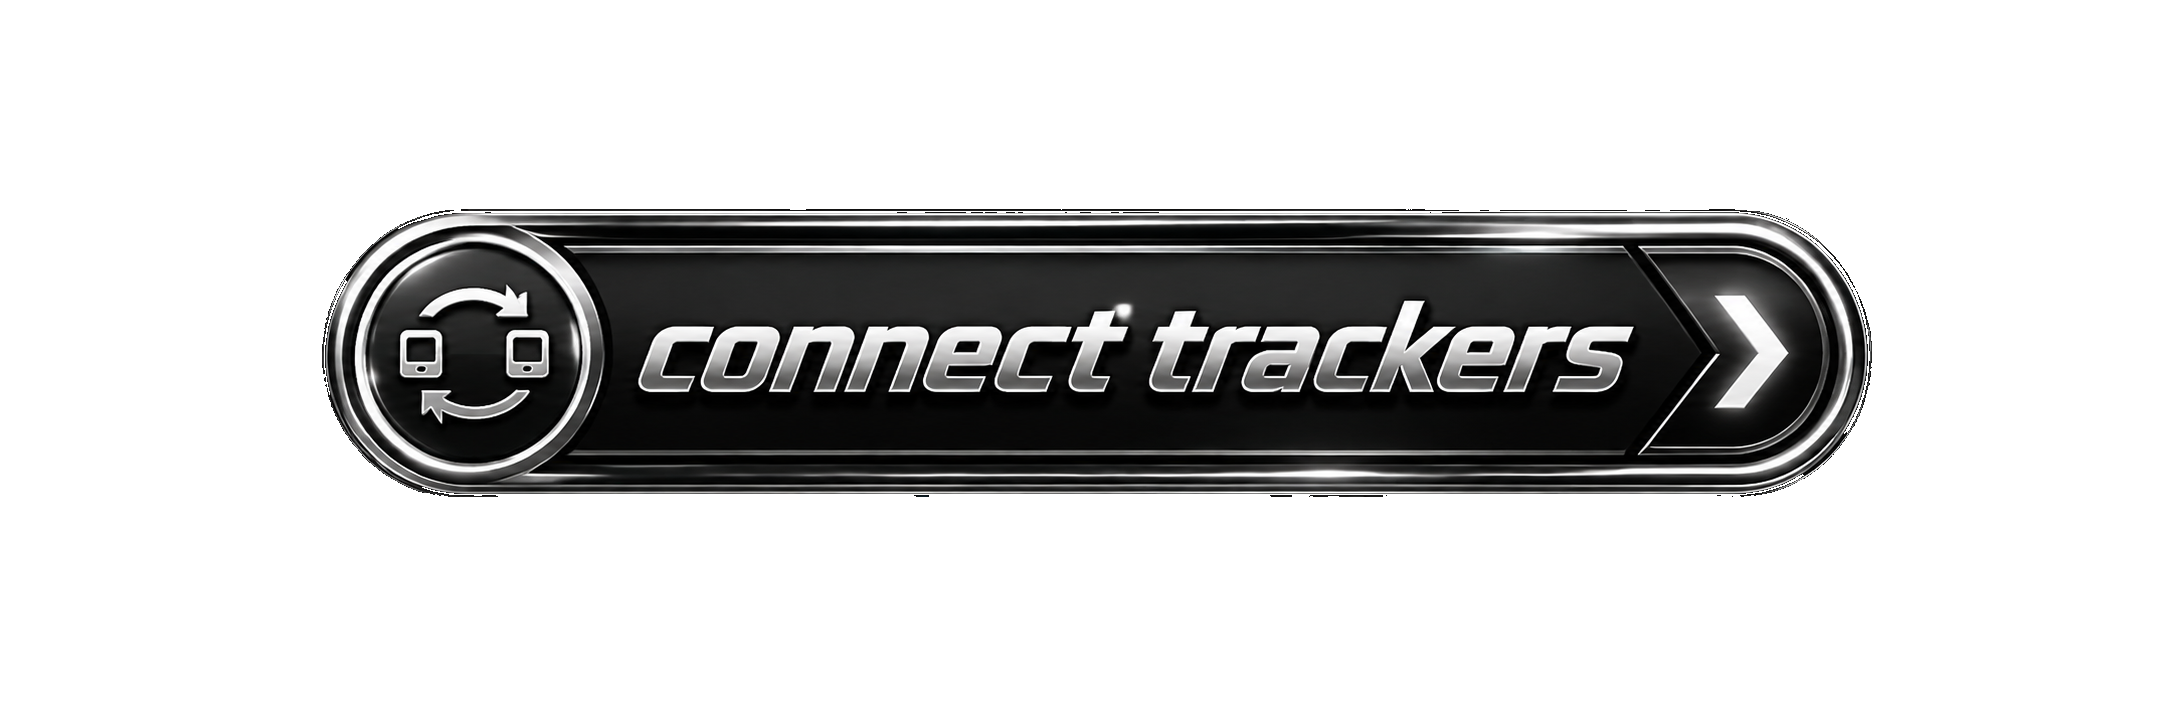
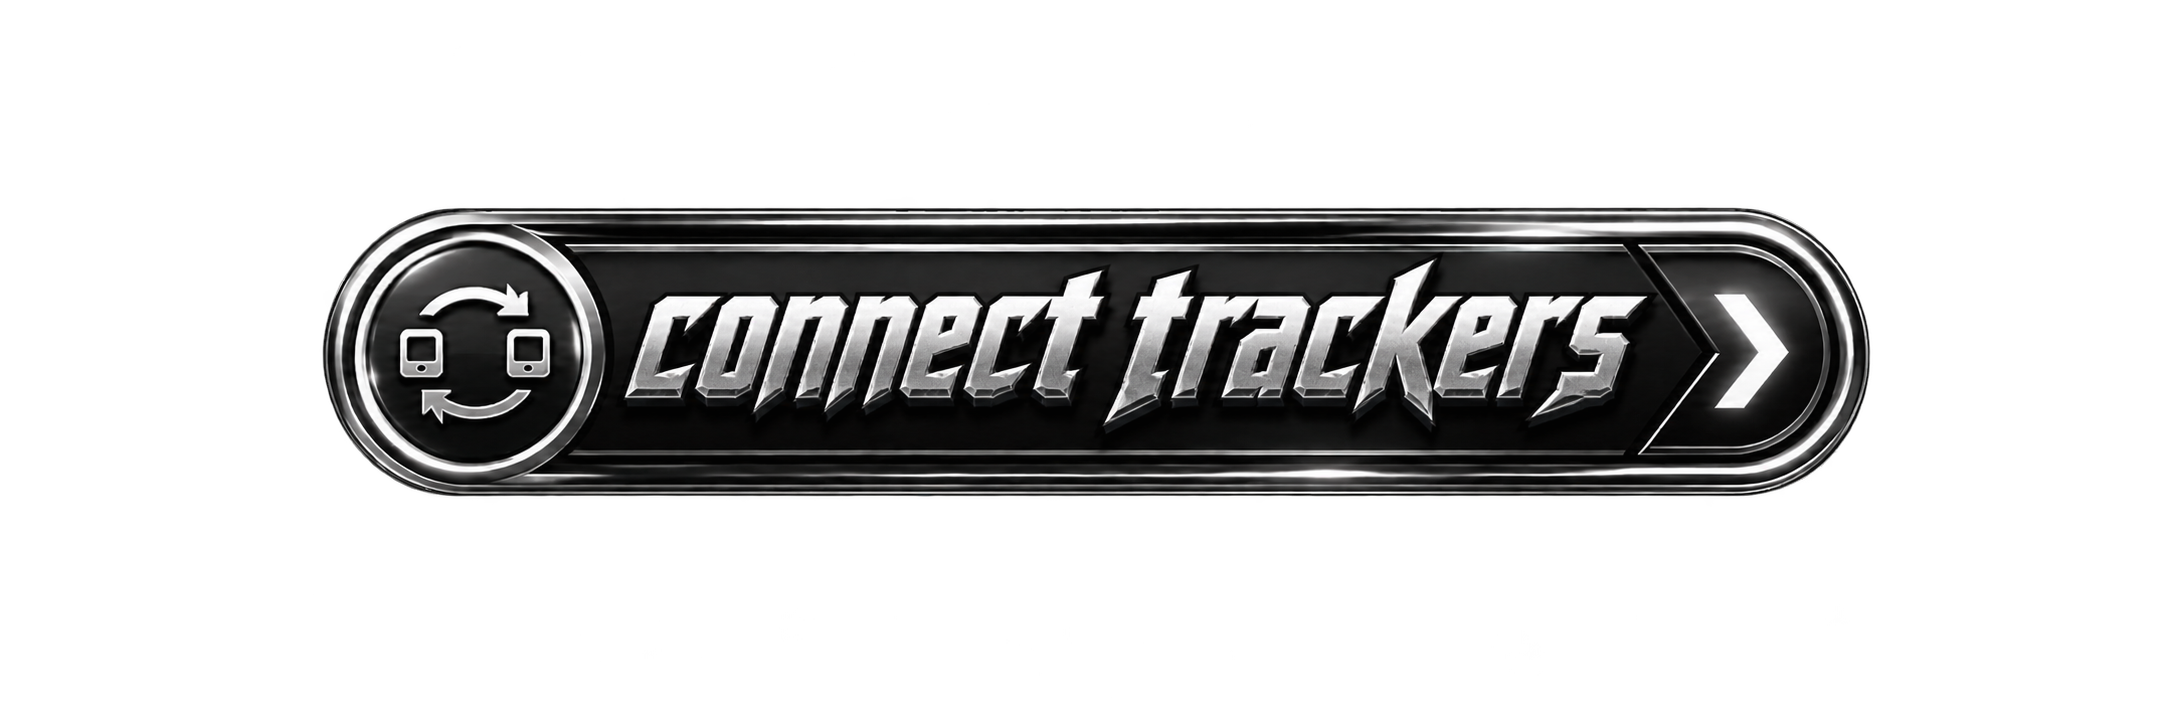
feat(landing): quick-start preset grid + consistent-restyle button art
The no-build path: Designed workouts is now an always-visible compact
grid — the three presets as selectable tiles (tap to pick, tap again
to clear), with a shrunk chrome "start workout" button centered in
the card that jumps STRAIGHT to the live screen running the selected
preset. No recipe detour, no seed minting; the live screen already
resolves selectedSampleKey, so navigation is the whole feature. The
quick-start stays disabled until a tile is picked.

ActionButton sizing formalized: new `fit` prop — 'canvas' (default,
exactly the old behavior for the heroes, glow bleed included) vs
'pill' (size by VISIBLE pill via TRIM metadata, canvas margins
collapsed from layout). Tracker pair and quick-start opt into pill
fit explicitly; nothing shifts silently.

Kyle's consistent-restyle exports land for all five buttons — every
one ships with clean alpha now, fix moved to a 2:1 canvas (aspect
resolves at runtime), and the TRIM table is re-measured from solid
alpha so the connect/fix pair renders at genuinely equal pill
heights (the earlier disproportion was art-side).

Landing tests updated: grid tiles always mounted, tap-select /
re-tap-clear, quick-start arms only with a pick.

Changed region(s): [[0.1542, 0.2735, 0.8637, 0.6381], [0.1851, 0.6381, 0.8329, 0.6989], [0.1542, 0.5773, 0.1851, 0.6381]]

diff --git a/src/app/(tabs)/punchcraft/index.tsx b/src/app/(tabs)/punchcraft/index.tsx
@@ -1,10 +1,9 @@
-import React, { useMemo } from 'react'
+import React from 'react'
 import { Link, Stack } from 'expo-router'
-import { Pressable, ScrollView, StyleSheet, Text } from 'react-native'
+import { Pressable, ScrollView, StyleSheet, Text, View } from 'react-native'
 
 import { ActionButton } from '@/components/branding/ActionButton'
 import { PickerProvider } from '@/components/ui/PickerContext'
-import { PickerRow, type PickerOption } from '@/components/ui/PickerRow'
 import { TrackerBadgesRow } from '../../../components/TrackerBadgesRow'
 import { colors } from '@/theme/colors'
 import { fonts, recipes, sizes } from '@/theme/typography'
@@ -23,18 +22,6 @@ export default function PunchCraftLanding() {
   const selectedSampleKey = useSelectedSampleKey()
   const selectSample = useWorkoutStore((s) => s.selectSample)
   const startNewBuild = useWorkoutStore((s) => s.startNewBuild)
-
-  const sampleOptions: ReadonlyArray<PickerOption<string | 'none'>> = useMemo(
-    () => [
-      { value: 'none' as const, label: 'None — build my own' },
-      ...samples.map((s) => ({
-        value: s.key,
-        label: s.name,
-        description: s.description,
-      })),
-    ],
-    [samples],
-  )
 
   return (
     <PickerProvider>
@@ -66,18 +53,47 @@ export default function PunchCraftLanding() {
           />
         </Link>
 
-        <PickerRow
-          id="landing-sample"
-          testID="landing-sample"
-          label="Designed workouts"
-          // Name the presets while collapsed — a bare "None — build my
-          // own" preview read as "the presets are gone" on the bag.
-          caption={samples.map((s) => s.name).join('  ·  ')}
-          value={selectedSampleKey ?? 'none'}
-          {...(selectedSampleKey ? {} : { valuePreview: `${samples.length} presets` })}
-          options={sampleOptions}
-          onChange={(key) => selectSample(key === 'none' ? undefined : (key as SampleWorkoutKey))}
-        />
+        {/* Designed workouts — the no-build path. An always-visible grid
+            (no popout): tap a preset to select it, and the small chrome
+            start button jumps STRAIGHT to the live screen running it —
+            no recipe detour, no seed minting. */}
+        <View style={styles.presetCard} testID="designed-workouts">
+          <Text style={styles.presetLabel}>Designed workouts</Text>
+          <View style={styles.presetGrid}>
+            {samples.map((sample) => {
+              const selected = sample.key === selectedSampleKey
+              return (
+                <Pressable
+                  key={sample.key}
+                  accessibilityRole="button"
+                  accessibilityState={{ selected }}
+                  onPress={() =>
+                    selectSample(selected ? undefined : (sample.key as SampleWorkoutKey))
+                  }
+                  style={[styles.presetTile, selected && styles.presetTileSelected]}
+                  testID={`preset-${sample.key}`}
+                >
+                  <Text style={[styles.presetName, selected && styles.presetNameSelected]}>
+                    {sample.name}
+                  </Text>
+                  <Text style={styles.presetDescription} numberOfLines={2}>
+                    {sample.description}
+                  </Text>
+                </Pressable>
+              )
+            })}
+          </View>
+          <Link href="/(tabs)/punchcraft/live" asChild>
+            <ActionButton
+              action="startWorkout"
+              fit="pill"
+              height={40}
+              disabled={selectedSampleKey === undefined}
+              testID="quick-start"
+              style={styles.quickStart}
+            />
+          </Link>
+        </View>
 
         {/* Throwaway M32-05 spike entry (#182); removed when the spike closes. */}
         <Link href="/(tabs)/punchcraft/orientation-spike" asChild>
@@ -100,6 +116,52 @@ const styles = StyleSheet.create({
     color: colors.textPrimary,
   },
   primaryActionSpacing: { marginTop: 4 },
+  presetCard: {
+    borderWidth: 1,
+    borderColor: colors.border,
+    borderRadius: 8,
+    backgroundColor: colors.surface,
+    padding: 12,
+    gap: 10,
+  },
+  presetLabel: {
+    fontSize: sizes.body,
+    fontFamily: fonts.heading,
+    color: colors.textPrimary,
+  },
+  presetGrid: {
+    flexDirection: 'row',
+    flexWrap: 'wrap',
+    gap: 8,
+  },
+  presetTile: {
+    flexGrow: 1,
+    flexBasis: 260,
+    borderWidth: 1,
+    borderColor: colors.borderStrong,
+    borderRadius: 8,
+    backgroundColor: colors.surfaceElevated,
+    paddingVertical: 8,
+    paddingHorizontal: 12,
+    gap: 2,
+  },
+  presetTileSelected: {
+    borderColor: colors.accent,
+    backgroundColor: colors.accentSurface,
+  },
+  presetName: {
+    fontSize: sizes.body,
+    fontFamily: fonts.heading,
+    color: colors.textPrimary,
+  },
+  presetNameSelected: { color: colors.accent },
+  presetDescription: {
+    fontSize: sizes.label,
+    fontFamily: fonts.body,
+    lineHeight: 16,
+    color: colors.textSecondary,
+  },
+  quickStart: { alignSelf: 'center' },
   spikeAction: {
     marginTop: 8,
     paddingVertical: 12,

diff --git a/src/components/branding/ActionButton.tsx b/src/components/branding/ActionButton.tsx
@@ -50,8 +50,14 @@ const ACCESSIBILITY_LABELS = {
 const TRIM: Partial<
   Record<keyof typeof SOURCES, { left: number; right: number; top: number; bottom: number }>
 > = {
-  connectTrackers: { left: 0.15, right: 0.14, top: 0.29, bottom: 0.31 },
-  fixTrackers: { left: 0.24, right: 0.23, top: 0.27, bottom: 0.3 },
+  // Measured from each asset's SOLID alpha (>220) after Kyle's
+  // 2026-08-28 consistent-restyle exports. fix moved to a 2:1 canvas;
+  // aspect resolves at runtime so only the trims live here.
+  buildAWorkout: { left: 0.019, right: 0.016, top: 0.188, bottom: 0.233 },
+  startWorkout: { left: 0.017, right: 0.015, top: 0.182, bottom: 0.229 },
+  hitIt: { left: 0.016, right: 0.015, top: 0.18, bottom: 0.228 },
+  connectTrackers: { left: 0.149, right: 0.14, top: 0.287, bottom: 0.316 },
+  fixTrackers: { left: 0.047, right: 0.047, top: 0.273, bottom: 0.246 },
 }
 
 /**
@@ -71,6 +77,16 @@ export interface ActionButtonProps {
   onPress?: () => void
   disabled?: boolean
   height?: number
+  /**
+   * How `height` is interpreted. `'canvas'` (default) sizes the full
+   * authored canvas — today's behavior for the hero buttons, glow bleed
+   * included. `'pill'` sizes the VISIBLE pill using the action's TRIM
+   * metadata and collapses the transparent canvas margins from layout —
+   * for compact placements (tracker pair, quick-start) where invisible
+   * canvas would space things apart. Falls back to canvas sizing when
+   * the action has no TRIM measurements.
+   */
+  fit?: 'canvas' | 'pill'
   accessibilityHint?: string
   style?: StyleProp<ViewStyle>
   testID?: string
@@ -81,6 +97,7 @@ export function ActionButton({
   onPress,
   disabled = false,
   height = DEFAULT_HEIGHT,
+  fit = 'canvas',
   accessibilityHint,
   style,
   testID,
@@ -106,12 +123,12 @@ export function ActionButton({
       <Image
         source={source}
         style={(() => {
-          const trim = TRIM[action]
+          const trim = fit === 'pill' ? TRIM[action] : undefined
           if (!trim) return { height, width: height * aspect, maxWidth: '100%' as const }
-          // Trimmed assets size by VISIBLE PILL height, not canvas height:
-          // the arts carry different pill-to-canvas ratios, so equal
-          // canvas heights rendered unequal buttons (the fix pill sat
-          // visibly shorter than connect at the same `height` prop).
+          // Pill fit sizes by VISIBLE PILL height, not canvas height: the
+          // arts carry different pill-to-canvas ratios, so equal canvas
+          // heights rendered unequal buttons (the fix pill sat visibly
+          // shorter than connect at the same `height` prop).
           const pillFraction = 1 - trim.top - trim.bottom
           const imageHeight = height / pillFraction
           const imageWidth = imageHeight * aspect

diff --git a/src/app/(tabs)/punchcraft/__tests__/recipe.test.tsx b/src/app/(tabs)/punchcraft/__tests__/recipe.test.tsx
@@ -279,25 +279,28 @@ describe('punchCraft landing — the workout home', () => {
     expect(button.props.accessibilityRole).toBe('button')
   })
 
-  it('lists the designed-workout library in the collapsed picker', () => {
-    // The samples now sit behind a collapsed picker on the landing —
-    // opening the picker mounts each sample as an option row.
+  it('shows every preset as an always-visible grid tile', () => {
+    // The presets are a grid now, not a popout — every tile mounted and
+    // named without any interaction.
     const tree = render(<PunchCraftLanding />)
-    press(tree, 'landing-sample-toggle')
     const text = allText(tree)
     for (const sample of listSampleWorkouts()) {
       expect(text).toContain(sample.name)
-      expect(() =>
-        tree.root.findByProps({ testID: `landing-sample-option-${sample.key}` }),
-      ).not.toThrow()
+      expect(() => tree.root.findByProps({ testID: `preset-${sample.key}` })).not.toThrow()
     }
   })
 
-  it('picking a library workout stores it so the run uses it, not the default', () => {
+  it('tile tap selects (and re-tap clears); quick-start arms only with a pick', () => {
     const tree = render(<PunchCraftLanding />)
     expect(store().selectedSampleKey).toBeUndefined()
-    pickOption(tree, 'landing-sample', 'switch-by-round')
+    expect(tree.root.findByProps({ testID: 'quick-start' }).props.disabled).toBe(true)
+
+    press(tree, 'preset-switch-by-round')
     expect(store().selectedSampleKey).toBe('switch-by-round')
+    expect(tree.root.findByProps({ testID: 'quick-start' }).props.disabled).toBe(false)
+
+    press(tree, 'preset-switch-by-round')
+    expect(store().selectedSampleKey).toBeUndefined()
   })
 
   it('Build a workout mints a fresh seed and clears any library pick (M35)', () => {

diff --git a/src/components/FixTrackerButton.tsx b/src/components/FixTrackerButton.tsx
@@ -81,6 +81,7 @@ export function FixTrackerButton(): React.ReactElement | null {
         }}
         disabled={result.phase === 'waiting'}
         height={FIX_BUTTON_HEIGHT}
+        fit="pill"
         accessibilityHint="Opens Bluetooth settings so you can toggle it off and on, then reconnects the trackers"
         testID="fix-tracker-connection"
       />

diff --git a/src/components/ConnectTrackersButton.tsx b/src/components/ConnectTrackersButton.tsx
@@ -95,6 +95,7 @@ export function ConnectTrackersButton(): React.ReactElement {
         }}
         disabled={busy}
         height={CONNECT_BUTTON_HEIGHT}
+        fit="pill"
         style={bothLive && styles.buttonQuiet}
         testID="connect-trackers"
       />
